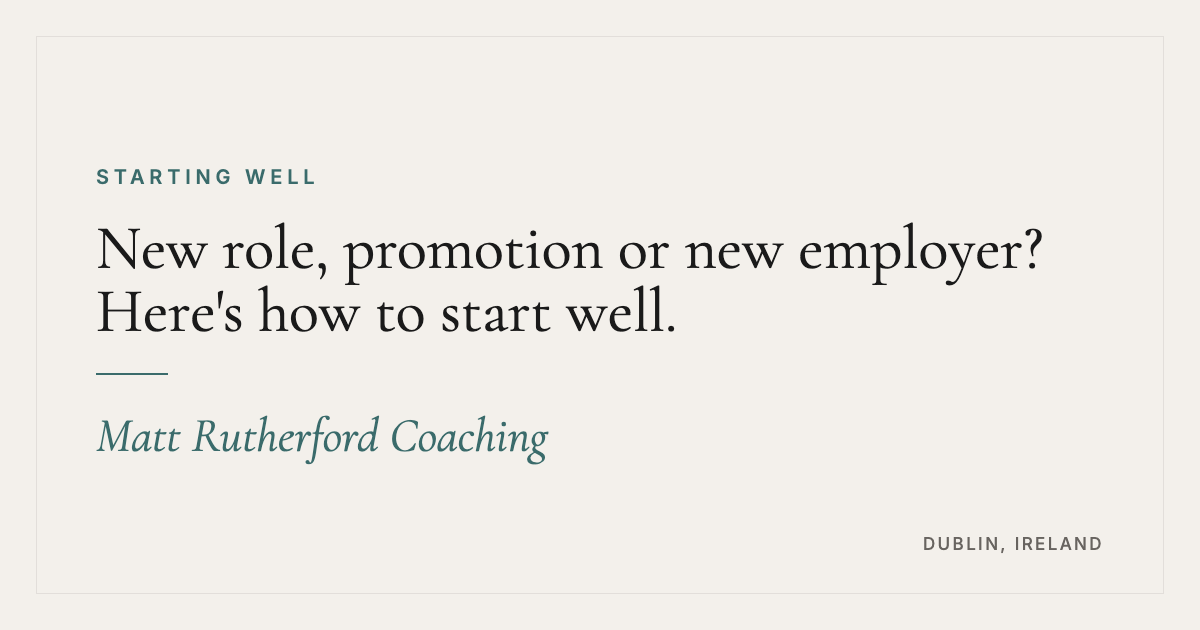
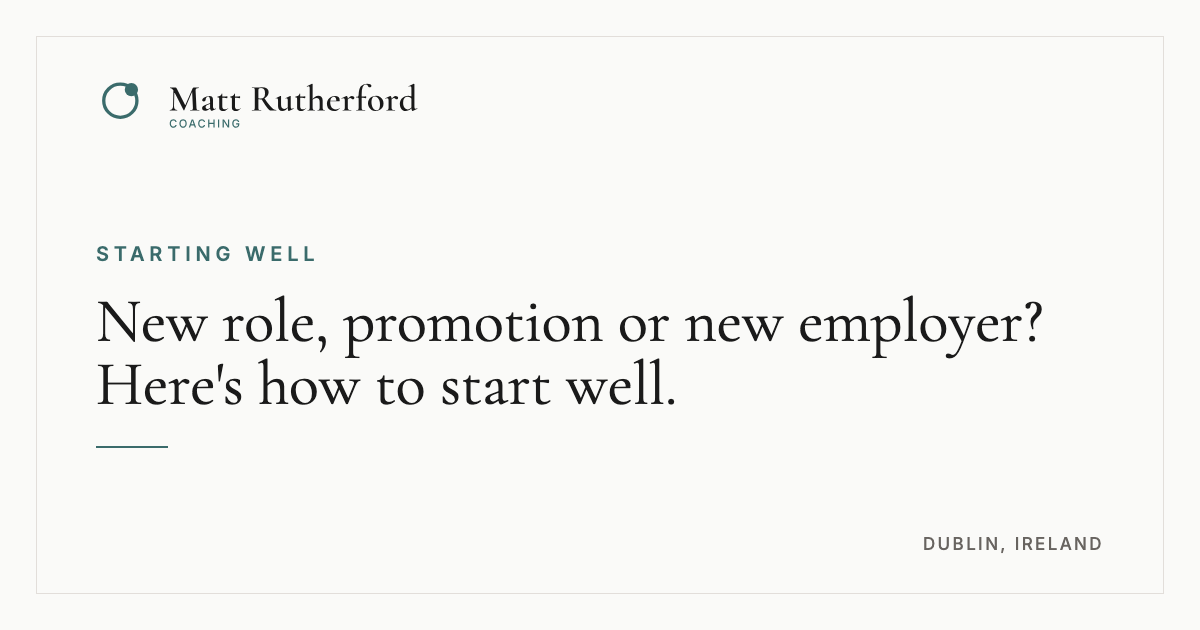
Regenerate the Open Graph images with the lockup
The home card now uses the hero line instead of the business name, which
the lockup already shows, and any page without its own card text falls
back to its title. Headlines over 20 characters drop to 76px so two-line
headlines do not run into the place line. Staging build.

diff --git a/index.html b/index.html
@@ -20,7 +20,7 @@
     <meta property="og:image" content="https://staging.mattrutherfordcoaching.com/og/home.png">
     <meta property="og:image:width" content="1200">
     <meta property="og:image:height" content="630">
-    <meta property="og:image:alt" content="Matt Rutherford Coaching. Matt Rutherford Coaching.">
+    <meta property="og:image:alt" content="Know your next step. Take it with clarity.. Matt Rutherford Coaching.">
     <meta property="og:locale" content="en_IE">
     <meta name="twitter:card" content="summary_large_image">
     <meta name="twitter:title" content="Matt Rutherford Coaching | Career and Leadership Coach, Dublin">

diff --git a/src/og-image.html b/src/og-image.html
@@ -46,6 +46,7 @@
         color: var(--mr-ink);
         margin-bottom: 30px;
     }
+    .name em { font-style: italic; color: var(--mr-accent); white-space: nowrap; }
     .tagline {
         font-family: var(--mr-serif);
         font-style: italic;

diff --git a/build.py b/build.py
@@ -737,18 +737,23 @@ def og_slug(page):
 def og_card(page):
     """What the page's 1200x630 share image says. Package pages are built
     from the package; other pages set og.label and og.headline in their
-    front matter, and fall back to the home card."""
+    front matter. The home card uses the hero line, and any other page
+    falls back to its title. None repeats the business name, which the
+    logo on the card already shows."""
     pkg = next((p for p in PACKAGES if p["url"] == page["path"]), None)
     if pkg:
         card = {"label": "Coaching package", "headline": pkg["name"],
                 "tagline": f"{pkg['price']}, {pkg['length'][0].lower()}{pkg['length'][1:]}"}
     elif page.get("og"):
         card = {"tagline": "", **page["og"]}
+    elif page["path"] == "/":
+        card = {"label": CONFIG["label"], "tagline": "",
+                "headline": "Know your next step. <em>Take it with clarity.</em>"}
     else:
-        card = {"label": CONFIG["label"], "headline": CONFIG["businessName"],
-                "tagline": "Know your next step. Take it with clarity."}
-    n = len(card["headline"])
-    card["size"] = "96px" if n <= 28 else "76px" if n <= 48 else "62px"
+        card = {"label": CONFIG["label"], "tagline": "",
+                "headline": page["title"].split(" | ")[0]}
+    n = len(strip_tags(card["headline"]))
+    card["size"] = "96px" if n <= 20 else "76px" if n <= 48 else "62px"
     return card
 
 
